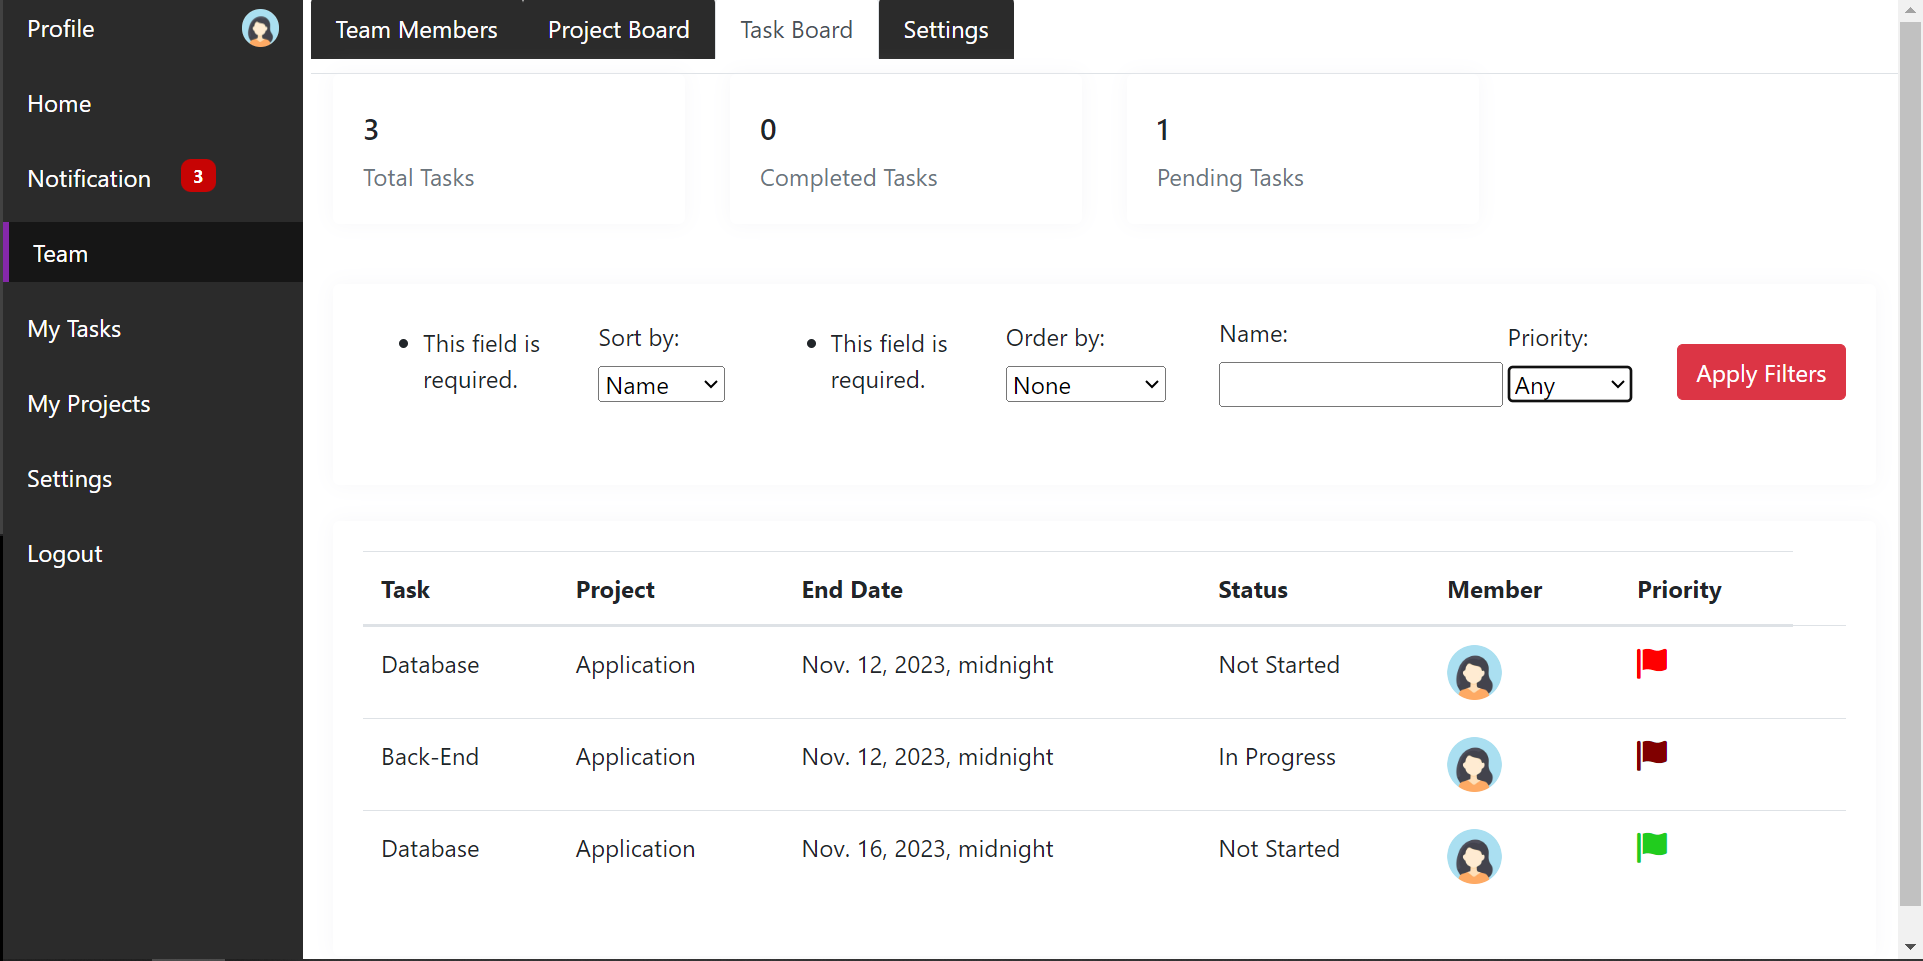
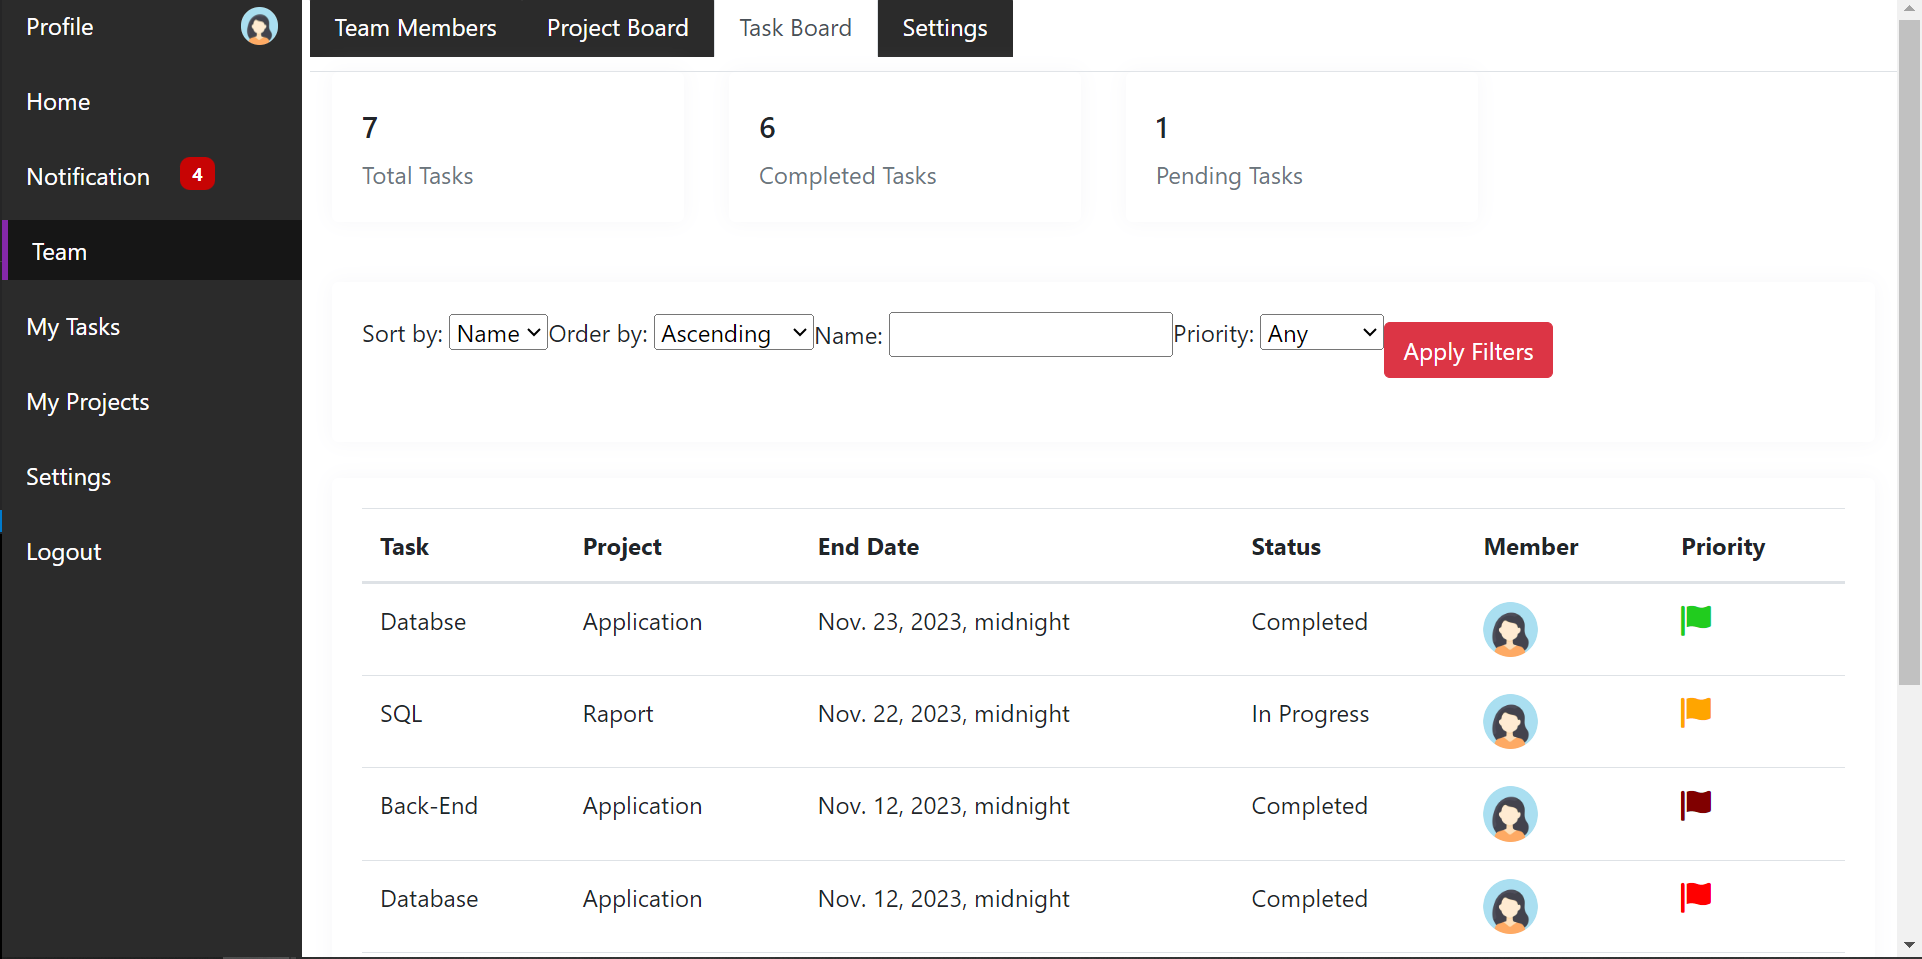
change option sortings to requireed false

diff --git a/task_management/forms.py b/task_management/forms.py
@@ -67,11 +67,10 @@ class ProjectBoardForm(forms.Form):
     ORDER_CHOICES = [
         ('asc', 'Ascending'),
         ('desc', 'Descending'),
-        (None, 'None'),
     ]
 
-    sort_by = forms.ChoiceField(choices=SORT_CHOICES)
-    order_by = forms.ChoiceField(choices=ORDER_CHOICES)
+    sort_by = forms.ChoiceField(required=False, choices=SORT_CHOICES)
+    order_by = forms.ChoiceField(required=False, choices=ORDER_CHOICES)
     name = forms.CharField(required=False, label='Name', initial='')
     priority = forms.ModelChoiceField(
         queryset=Priority.objects.all(),
@@ -106,18 +105,16 @@ class TaskForm(forms.ModelForm):
 class TaskBoardForm(forms.Form):
     SORT_CHOICES = [
         ('name', 'Name'),
-        ('progress', 'Progress'), 
         ('date', 'Date'),
     ]
 
     ORDER_CHOICES = [
         ('asc', 'Ascending'),
         ('desc', 'Descending'),
-        (None, 'None'),
     ]
 
-    sort_by = forms.ChoiceField(choices=SORT_CHOICES, initial='name')
-    order_by = forms.ChoiceField(choices=ORDER_CHOICES, initial='asc')
+    sort_by = forms.ChoiceField(required=False, choices=SORT_CHOICES, initial='name')
+    order_by = forms.ChoiceField(required=False, choices=ORDER_CHOICES, initial='asc')
     name = forms.CharField(required=False, label='Name', initial='')
     priority = forms.ModelChoiceField(
         queryset=Priority.objects.all(),

diff --git a/README.md b/README.md
@@ -72,7 +72,7 @@ It is a visible project when the user is a leader or is assigned to a task in a 
 
 On the task board it is possible to see who is assigned to a task, what the progress is, what the priority is and also which project the task belongs to.
 At the top of the page we can see the number of all tasks, completed tasks as well as tasks in progress.
-Sorting (asc desc) by date, name-alphabetical, progress, search by name and by priority is available.
+Sorting (asc desc) by date, name-alphabetical, search by name and by priority is available.
 
 On the task page the user can add attachments, there is also a comments section where the leader can comment on the user's work
 
